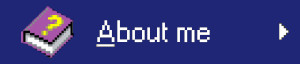
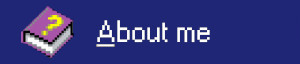
major bug fixes, link buttons started

Changed region(s): [[0.93, 0.3438, 0.99, 0.625]]

diff --git a/src/StartMenu.css b/src/StartMenu.css
@@ -43,12 +43,12 @@
     position: relative;
     top: 156%; left: 60px;
     background-color: #888;
-    background-image: url('assets/StartGithub.jpg');
+    background-image: url('assets/StartLinkedin.jpg');
     min-width: 300px;
     max-width: max-content;
     min-height: 64px;
   }
 
   .start-menu-task-3:hover {
-    background-image: url('assets/StartGitHubHover.jpg');
+    background-image: url('assets/StartLinkedinHover.jpg');
   }

diff --git a/src/App.tsx b/src/App.tsx
@@ -43,10 +43,10 @@ function App(){
         openNewTask(1,"About Me");
         break;
       case 2:
-      openNewTask(2,"github");
+      window.open("https://github.com/jcdotcom", "_blank");
         break;
       case 3:
-      openNewTask(3,"linkedin");
+        window.open("https://www.linkedin.com/in/jaycee-waycaster/", "_blank");
         break;
     }
   }

diff --git a/src/Window.css b/src/Window.css
@@ -84,4 +84,5 @@
 
   .pfp {
     max-width: 260px;
+    border: 1px solid black;
   }
